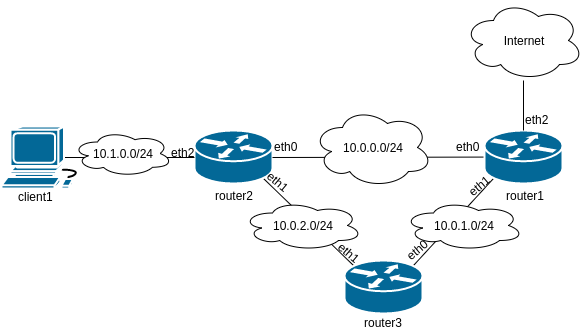
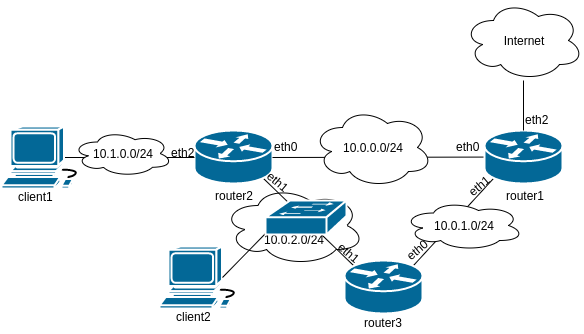
change topology -> one more client connected to 2 routers

Changed region(s): [[0.2774, 0.5689, 0.6164, 0.9581], [0.4932, 0.7784, 0.524, 0.8084]]

diff --git a/emulation/client1/root/client.py b/emulation/client1/root/client.py
@@ -1,0 +1,62 @@
+import socket
+import struct
+import sys
+import netifaces
+
+
+def chooseInterface():
+    interfaces = netifaces.interfaces()
+    def printInterfaces():
+        print('Indique a interface de captura:')
+        for i in range(len(interfaces)):
+            print (i+1, '-', interfaces[i])
+        
+    if len(interfaces) == 1: #user has just 1 interface and any
+        return interfaces[0]
+    else:
+        printInterfaces()
+        inputValue = input('Numero da interface: ')
+
+        if int(inputValue)-1 not in range(len(interfaces)):
+            raise Exception('numero de interface invalida')
+        inputValue = interfaces[int(inputValue)-1]
+        return inputValue
+
+if not hasattr(socket, 'SO_BINDTODEVICE'):
+    socket.SO_BINDTODEVICE = 25
+
+multicast_group = '224.12.12.12'
+server_address = ('', 10000)
+
+# Create the socket
+sock = socket.socket(socket.AF_INET, socket.SOCK_DGRAM)
+
+# Bind to the server address
+sock.bind(server_address)
+
+#interface_name = input("interface name: ")
+interface_name = chooseInterface()
+ip_interface = netifaces.ifaddresses(interface_name)[netifaces.AF_INET][0]['addr']
+
+
+# Tell the operating system to add the socket to the multicast group
+# on all interfaces.
+group = socket.inet_aton(multicast_group)
+
+sock.setsockopt(socket.IPPROTO_IP, socket.IP_ADD_MEMBERSHIP,
+                     socket.inet_aton(multicast_group) + socket.inet_aton(ip_interface))
+
+#sock.setsockopt(socket.SOL_SOCKET, socket.SO_BINDTODEVICE, str(interface_name + "\0").encode('utf-8'))
+
+
+# Receive/respond loop
+while True:
+    #print >>sys.stderr, '\nwaiting to receive message'
+    data, address = sock.recvfrom(10240)
+    print(data.decode("utf-8"))
+
+    #print >>sys.stderr, 'received %s bytes from %s' % (len(data), address)
+    #print >>sys.stderr, data
+
+    #print >>sys.stderr, 'sending acknowledgement to', address
+    #sock.sendto('ack', address)

diff --git a/emulation/client2/root/client.py b/emulation/client2/root/client.py
@@ -1,0 +1,62 @@
+import socket
+import struct
+import sys
+import netifaces
+
+
+def chooseInterface():
+    interfaces = netifaces.interfaces()
+    def printInterfaces():
+        print('Indique a interface de captura:')
+        for i in range(len(interfaces)):
+            print (i+1, '-', interfaces[i])
+        
+    if len(interfaces) == 1: #user has just 1 interface and any
+        return interfaces[0]
+    else:
+        printInterfaces()
+        inputValue = input('Numero da interface: ')
+
+        if int(inputValue)-1 not in range(len(interfaces)):
+            raise Exception('numero de interface invalida')
+        inputValue = interfaces[int(inputValue)-1]
+        return inputValue
+
+if not hasattr(socket, 'SO_BINDTODEVICE'):
+    socket.SO_BINDTODEVICE = 25
+
+multicast_group = '224.12.12.12'
+server_address = ('', 10000)
+
+# Create the socket
+sock = socket.socket(socket.AF_INET, socket.SOCK_DGRAM)
+
+# Bind to the server address
+sock.bind(server_address)
+
+#interface_name = input("interface name: ")
+interface_name = chooseInterface()
+ip_interface = netifaces.ifaddresses(interface_name)[netifaces.AF_INET][0]['addr']
+
+
+# Tell the operating system to add the socket to the multicast group
+# on all interfaces.
+group = socket.inet_aton(multicast_group)
+
+sock.setsockopt(socket.IPPROTO_IP, socket.IP_ADD_MEMBERSHIP,
+                     socket.inet_aton(multicast_group) + socket.inet_aton(ip_interface))
+
+#sock.setsockopt(socket.SOL_SOCKET, socket.SO_BINDTODEVICE, str(interface_name + "\0").encode('utf-8'))
+
+
+# Receive/respond loop
+while True:
+    #print >>sys.stderr, '\nwaiting to receive message'
+    data, address = sock.recvfrom(10240)
+    print(data.decode("utf-8"))
+
+    #print >>sys.stderr, 'received %s bytes from %s' % (len(data), address)
+    #print >>sys.stderr, data
+
+    #print >>sys.stderr, 'sending acknowledgement to', address
+    #sock.sendto('ack', address)
